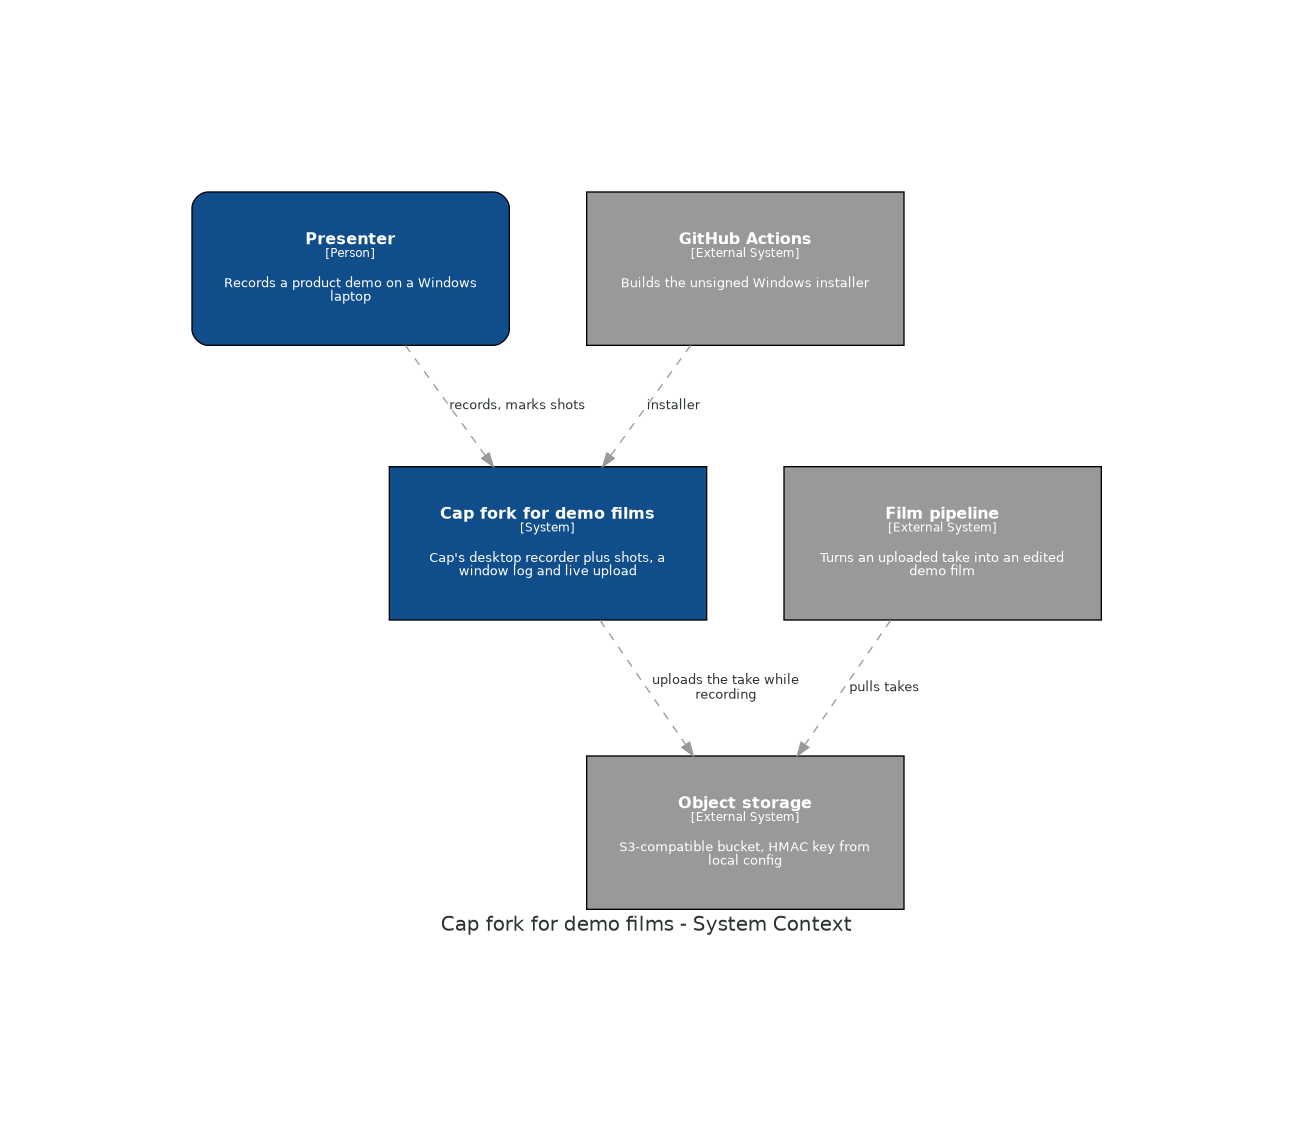
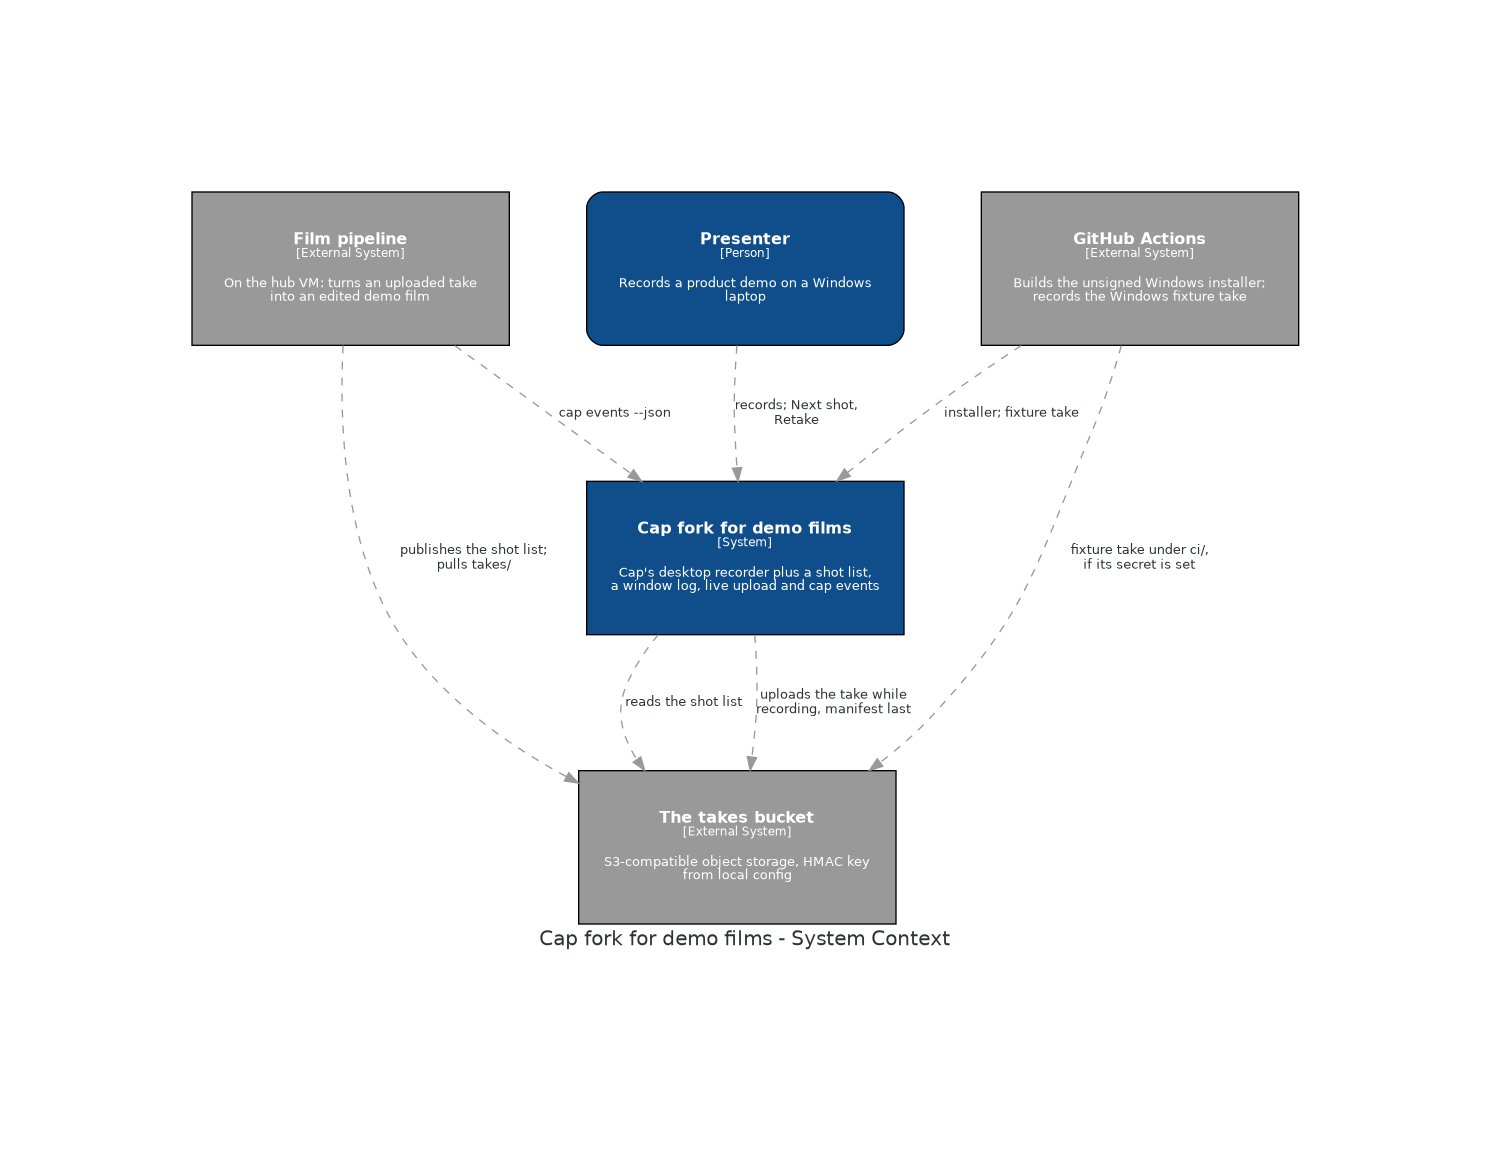
docs: c4.py drawn from the fork's real code (T-812)
Review at 2ee1b6c01: level 4 now lists shots.rs, hotkeys.rs, session.rs,
recording.rs, the gcs-mirror crate (lib.rs, sigv4.rs, cap-driver), events.rs,
verify-stimulus and both fork workflows; a level 4 arrow is drawn only when
the call it names is in its source file. The shot-list GET from the bucket
is drawn at context, container and component level. The contracts box no
longer claims runtime validation: only the shot list is parsed by their
rules. Known limitations read whole multi-line shortcut comments from the
app, the gcs-mirror crate, the CLI and verify-stimulus, and name the fn.
PNGs re-render from main once the other fork PRs land.

Task: T-812

diff --git a/docs/architecture/c4.py b/docs/architecture/c4.py
@@ -8,9 +8,11 @@
     uv run docs/architecture/c4.py context    # just one level
 
 Level 4 is read from the code on every run: each fork file that exists is drawn with its public
-functions, and one not yet in the tree is drawn as "not built yet". The README section between the
-fork markers is rewritten too, so its Known limitations list always matches the `// shortcut:`
-comments in apps/desktop-gpui/src. This repo is public: no bucket, key, host or address appears here.
+functions (a workflow with its steps), and one not yet in the tree is drawn as "not built yet". A
+level 4 arrow is drawn only when the call it names is in the source file it starts from. The README
+section between the fork markers is rewritten too, so its Known limitations list always matches the
+`// shortcut:` comments in the fork's code. This repo is public: no bucket, key, host or address
+appears here.
 """
 
 import re
@@ -19,7 +21,7 @@ import sys
 from functools import partial
 from pathlib import Path
 
-from diagrams import Diagram
+from diagrams import Cluster, Diagram
 from diagrams.c4 import C4Node, Container, Database, Person, Relationship, System, SystemBoundary
 
 # diagrams.c4 wraps text at 40 characters but draws 2.6in boxes, which cut lines off; 3.3in fits.
@@ -31,37 +33,92 @@ OUT = Path(__file__).parent
 ROOT = OUT.parents[1]
 SYSTEM = "Cap fork for demo films"
 GRAPH = {"splines": "spline", "nodesep": "0.8", "ranksep": "1.1"}
-SHORTCUT = re.compile(r"//+\s*shortcut:\s*([^\n]+)")
+# A `// shortcut:` comment and the `//` lines that continue it.
+SHORTCUT = re.compile(r"//+[ \t]*shortcut:[ \t]*([^\n]*(?:\n[ \t]*//+(?![ \t]*shortcut:)[^\n]*)*)")
+SHORTCUT_DIRS = ("apps/desktop-gpui/src", "apps/desktop-gpui/gcs-mirror/src", "apps/cli/src", "crates/verify-stimulus/src")
 START, END = "<!-- fork:start (written by docs/architecture/c4.py) -->", "<!-- fork:end -->"
+BUCKET = "The takes bucket"
 
-# Level 4: the code the fork adds or changes, as (path, what it does).
-CODE = [
-    ("apps/desktop-gpui/src/window_log.rs", "Foreground window every 250 ms -> windows.jsonl, on the cursor clock"),
-    ("apps/desktop-gpui/src/teleprompter_window.rs", "Shot list lines; Next shot appends {shot_id, segment, time_ms} to shots.json"),
-    ("apps/desktop-gpui/src/gcs_mirror.rs", "Closed fragments hard-linked to outbox/, uploaded once; audio as deltas; manifest last"),
-    ("apps/cli/src/events.rs", "cap events <take> --json: cursor.json and keyboard.bin as one sorted list"),
-    ("crates/recording/src/output_pipeline/start_gate.rs", "The start-gate epoch every take time is measured from (upstream, reused)"),
-    ("apps/desktop-gpui/src/theme.rs", "Colour and type tokens for the restyle"),
+# Level 4: the code the fork adds or changes, grouped by where it runs, as (path, what it does).
+APP, CRATE, CLI, CI, UPSTREAM = (
+    "Desktop app (apps/desktop-gpui/src)",
+    "cap-gcs-mirror crate (apps/desktop-gpui/gcs-mirror)",
+    "cap CLI (apps/cli)",
+    "CI fixture and release",
+    "Upstream, reused",
+)
+CODE = {
+    APP: [
+        ("apps/desktop-gpui/src/recording.rs", "Studio start: starts the mirror and the window log; finalize: mirror stop before the remux"),
+        ("apps/desktop-gpui/src/session.rs", "Recording phases; shot_time(): take dir and (segment, ms) on the start-gate clock"),
+        ("apps/desktop-gpui/src/teleprompter_window.rs", "Shows the shot on screen; load_shot_list GETs it from the bucket; mark_shot"),
+        ("apps/desktop-gpui/src/shots.rs", "pick bucket or local list, parse (shotlist rules), ShotClock, mark -> shots.json"),
+        ("apps/desktop-gpui/src/hotkeys.rs", "Ctrl+Alt+N / Ctrl+Alt+R while a shot list shows -> Next shot / Retake"),
+        ("apps/desktop-gpui/src/window_log.rs", "Windows: foreground window every 250 ms -> windows.jsonl, on change only"),
+        ("apps/desktop-gpui/src/gcs_mirror.rs", "Reads mirror.json from app data; start, stop, resume_pending"),
+        ("apps/desktop-gpui/src/theme.rs", "Light palette and type tokens for the restyle"),
+    ],
+    CRATE: [
+        ("apps/desktop-gpui/gcs-mirror/src/lib.rs", "Mirror: outbox hard links, scan, freeze -> stop.json, drain, manifest last"),
+        ("apps/desktop-gpui/gcs-mirror/src/sigv4.rs", "SigV4 signing for the XML API with an HMAC key"),
+        ("apps/desktop-gpui/gcs-mirror/src/bin/cap-driver.rs", "Test adapter, JSON on stdin: sign, scan, stop, resume, shots"),
+    ],
+    CLI: [
+        ("apps/cli/src/events.rs", "cap events <take> --json: cursor.json and keyboard.bin as one sorted list"),
+    ],
+    CI: [
+        (".github/workflows/verify-recording.yml", "windows-2022: a real studio take of the stimulus with SendInput clicks"),
+        ("crates/verify-stimulus/src/main.rs", "The stimulus window; each click flips a corner patch, logged to .clicks.jsonl"),
+        ("crates/verify-stimulus/src/bin/window_log_probe.rs", "window_log.rs compiled in unchanged, run beside the fixture take"),
+        (".github/workflows/fork-windows-release.yml", "Unsigned Windows NSIS installer; no updater artefacts"),
+    ],
+    UPSTREAM: [
+        ("crates/recording/src/output_pipeline/start_gate.rs", "The start-gate epoch every take time is measured from"),
+    ],
+}
+# Level 4 arrows as (from, the text that must be in `from`, to, label).
+CALLS = [
+    ("apps/desktop-gpui/src/recording.rs", "gcs_mirror::start", "apps/desktop-gpui/src/gcs_mirror.rs", "start; stop before remux"),
+    ("apps/desktop-gpui/src/recording.rs", "window_log::start", "apps/desktop-gpui/src/window_log.rs", "start, stop"),
+    ("apps/desktop-gpui/src/session.rs", "window_log::set_paused", "apps/desktop-gpui/src/window_log.rs", "set_paused"),
+    ("apps/desktop-gpui/src/hotkeys.rs", "view.mark_shot", "apps/desktop-gpui/src/teleprompter_window.rs", "mark_shot"),
+    ("apps/desktop-gpui/src/teleprompter_window.rs", "shot_time()", "apps/desktop-gpui/src/session.rs", "shot_time"),
+    ("apps/desktop-gpui/src/teleprompter_window.rs", "shots::pick", "apps/desktop-gpui/src/shots.rs", "pick, mark"),
+    ("apps/desktop-gpui/src/teleprompter_window.rs", "cap_gcs_mirror::request", "apps/desktop-gpui/gcs-mirror/src/lib.rs", "GET the shot list"),
+    ("apps/desktop-gpui/src/session.rs", "armed_at", "crates/recording/src/output_pipeline/start_gate.rs", "armed instant"),
+    ("apps/desktop-gpui/src/recording.rs", "armed_at", "crates/recording/src/output_pipeline/start_gate.rs", "window log epoch"),
+    ("apps/desktop-gpui/src/gcs_mirror.rs", "Mirror::new", "apps/desktop-gpui/gcs-mirror/src/lib.rs", "Mirror, spawn, stop, drain"),
+    ("apps/desktop-gpui/gcs-mirror/src/lib.rs", "sigv4::authorize", "apps/desktop-gpui/gcs-mirror/src/sigv4.rs", "authorize"),
+    ("apps/desktop-gpui/gcs-mirror/src/bin/cap-driver.rs", "Mirror::new", "apps/desktop-gpui/gcs-mirror/src/lib.rs", "scan, stop, resume"),
+    ("apps/desktop-gpui/gcs-mirror/src/bin/cap-driver.rs", "src/shots.rs", "apps/desktop-gpui/src/shots.rs", "includes by path"),
+    ("crates/verify-stimulus/src/bin/window_log_probe.rs", "src/window_log.rs", "apps/desktop-gpui/src/window_log.rs", "includes by path"),
+    (".github/workflows/verify-recording.yml", "cap-verify-stimulus", "crates/verify-stimulus/src/main.rs", "records the stimulus"),
+    (".github/workflows/verify-recording.yml", "window-log-probe", "crates/verify-stimulus/src/bin/window_log_probe.rs", "runs"),
+    (".github/workflows/verify-recording.yml", "op: \"shots\"", "apps/desktop-gpui/gcs-mirror/src/bin/cap-driver.rs", "shots, scan, stop"),
+    (".github/workflows/verify-recording.yml", "events \"$take\" --json", "apps/cli/src/events.rs", "cap events --json"),
 ]
 
 
-def draw(level, title):
+def draw(level, title, direction="TB"):
     return Diagram(f"{SYSTEM} - {title}", filename=str(OUT / f"c4_{level}"), outformat="png",
-                   show=False, direction="TB", graph_attr=GRAPH)
+                   show=False, direction=direction, graph_attr=GRAPH)
 
 
 def context():
-    """Level 1: who uses the fork and what it depends on."""
+    """Level 1: who uses the fork and what it talks to."""
     with draw("context", "System Context"):
         lead = Person("Presenter", "Records a product demo on a Windows laptop")
-        fork = System(SYSTEM, "Cap's desktop recorder plus shots, a window log and live upload")
-        store = System("Object storage", "S3-compatible bucket, HMAC key from local config", external=True)
-        pipeline = System("Film pipeline", "Turns an uploaded take into an edited demo film", external=True)
-        ci = System("GitHub Actions", "Builds the unsigned Windows installer", external=True)
-        lead >> Relationship("records, marks shots") >> fork
-        fork >> Relationship("uploads the take while recording") >> store
-        pipeline >> Relationship("pulls takes") >> store
-        ci >> Relationship("installer") >> fork
+        fork = System(SYSTEM, "Cap's desktop recorder plus a shot list, a window log, live upload and cap events")
+        store = System(BUCKET, "S3-compatible object storage, HMAC key from local config", external=True)
+        pipeline = System("Film pipeline", "On the hub VM: turns an uploaded take into an edited demo film", external=True)
+        ci = System("GitHub Actions", "Builds the unsigned Windows installer; records the Windows fixture take", external=True)
+        lead >> Relationship("records; Next shot, Retake") >> fork
+        fork >> Relationship("reads the shot list") >> store
+        fork >> Relationship("uploads the take while recording, manifest last") >> store
+        pipeline >> Relationship("publishes the shot list; pulls takes/") >> store
+        pipeline >> Relationship("cap events --json") >> fork
+        ci >> Relationship("installer; fixture take") >> fork
+        ci >> Relationship("fixture take under ci/, if its secret is set") >> store
 
 
 def container():
@@ -69,17 +126,22 @@ def container():
     with draw("container", "Containers"):
         lead = Person("Presenter", "")
         with SystemBoundary(SYSTEM):
-            app = Container("Desktop app", "Rust, GPUI (apps/desktop-gpui)", "Studio recording, teleprompter, window log, upload")
-            cli = Container("cap CLI", "Rust (apps/cli), same commit", "cap events --json; cap export")
-            release = Container("Release workflow", "GitHub Actions, windows-2022", "Unsigned installer; updater and telemetry off")
-            vendor = Database("contracts/vendor/", "JSON Schema, copied from the pipeline", "Shot list, shots, windows, manifest")
-        store = Database("Object storage", "S3-compatible", "takes/<id>/: fragments, sidecars, manifest last")
-        take = Database("Take folder", "<take>.cap on the laptop", "Never rewritten by the fork; uploads go via outbox/")
-        lead >> Relationship("record, Next shot") >> app
+            app = Container("Desktop app", "Rust, GPUI (apps/desktop-gpui)", "Studio recording, teleprompter shot list, window log, upload mirror")
+            cli = Container("cap CLI", "Rust (apps/cli), same commit", "cap events <take> --json")
+            driver = Container("cap-driver", "Rust (gcs-mirror crate, test binary)", "The mirror and the shot logic, one JSON request per run")
+            fixture = Container("Recording fixture", "GitHub Actions, windows-2022", "Studio take of the stimulus, SendInput clicks, artefact")
+            release = Container("Release workflow", "GitHub Actions, windows-2022", "Unsigned installer, no updater artefacts")
+            vendor = Database("contracts/vendor/0.1.0", "JSON Schema from the film repo", "shotlist, shots, windows, cap-events, manifest")
+        store = Database(BUCKET, "S3-compatible", "shotlist/current.json; takes/<take>/ with the manifest last; ci/")
+        take = Database("Take folder", "<take>.cap on the laptop", "Cap's files, plus shots.json, windows.jsonl, outbox/")
+        lead >> Relationship("record; Next shot, Retake") >> app
         app >> Relationship("writes") >> take
-        app >> Relationship("PUT closed fragments") >> store
-        cli >> Relationship("reads the same project format") >> take
-        app >> Relationship("validates outputs against") >> vendor
+        app >> Relationship("GET the shot list; PUT the take, manifest last") >> store
+        app >> Relationship("parses the shot list by the rules of") >> vendor
+        cli >> Relationship("reads cursor.json, keyboard.bin") >> take
+        fixture >> Relationship("shots, scan, stop") >> driver
+        fixture >> Relationship("cap events --json") >> cli
+        driver >> Relationship("PUT under ci/<run>-<attempt>/") >> store
         release >> Relationship("builds") >> app
 
 
@@ -87,60 +149,95 @@ def component():
     """Level 3: inside the desktop app, only the parts the fork adds or reuses."""
     with draw("component", "Components of the desktop app"):
         with SystemBoundary("Desktop app (apps/desktop-gpui)"):
-            gate = Component("Start gate", "crates/recording, reused", "The one clock for cursor.json, keyboard.bin, shots and windows")
-            tele = Component("Teleprompter and shots", "teleprompter_window.rs", "Shows the shot list; Next shot writes shots.json")
-            win = Component("Window log", "window_log.rs", "Foreground title and process on change -> windows.jsonl")
-            mirror = Component("Upload mirror", "gcs_mirror.rs", "outbox/ hard links; resumable from uploaded.jsonl; 120 s drain at stop")
-        store = Database("Object storage", "S3-compatible", "")
-        tele >> Relationship("times from") >> gate
-        win >> Relationship("times from") >> gate
-        mirror >> Relationship("PUT") >> store
+            rec = Component("Recording", "recording.rs, session.rs", "Studio start and stop; pause and resume; shot_time()")
+            gate = Component("Start gate", "crates/recording, reused", "The armed instant cursor.json, shots and windows count from")
+            keys = Component("Shot hotkeys", "hotkeys.rs", "Ctrl+Alt+N, Ctrl+Alt+R while a shot list shows")
+            tele = Component("Teleprompter", "teleprompter_window.rs", "Shows the shot on screen; Next shot, Retake")
+            shots = Component("Shots", "shots.rs", "Bucket list or local file; parse; marks -> shots.json")
+            win = Component("Window log", "window_log.rs", "Windows only: foreground title and process on change")
+            wiring = Component("Mirror wiring", "gcs_mirror.rs", "mirror.json from app data; start, stop, resume_pending")
+            mirror = Component("Mirror", "gcs-mirror crate: lib.rs, sigv4.rs", "outbox/ hard links, uploaded.jsonl, stop.json, manifest last")
+        store = Database(BUCKET, "S3-compatible", "")
+        take = Database("Take folder", "<take>.cap", "")
+        keys >> Relationship("mark_shot") >> tele
+        tele >> Relationship("pick, mark") >> shots
+        tele >> Relationship("shot_time") >> rec
+        tele >> Relationship("signed GET") >> mirror
+        rec >> Relationship("armed instant") >> gate
+        rec >> Relationship("start, pause, stop") >> win
+        rec >> Relationship("start; stop before remux") >> wiring
+        wiring >> Relationship("spawn, stop, drain") >> mirror
+        shots >> Relationship("shots.json") >> take
+        win >> Relationship("windows.jsonl") >> take
+        mirror >> Relationship("hard-links fragments into outbox/") >> take
+        mirror >> Relationship("GET shot list; PUT take, manifest last") >> store
+
+
+def outline(path, text):
+    """What a file defines: a workflow's step names, else its public functions."""
+    if path.endswith(".yml"):
+        return "steps: " + ", ".join(re.findall(r"^\s*- name:\s*(.+)$", text, re.M))
+    names = sorted(set(re.findall(r"pub(?:\([a-z]+\))?\s+fn\s+(\w+)", text)))
+    return "fns: " + ", ".join(names[:6]) + (", ..." if len(names) > 6 else "") if names else ""
 
 
 def code():
-    """Level 4: the fork's files as they are in this tree, with their public functions."""
-    with draw("code", "Code (read from the tree)"):
-        nodes = {}
+    """Level 4: the fork's files as they are in this tree, with what they define."""
+    # left to right: one column per call depth keeps 17 files narrow enough for a README
+    with draw("code", "Code (read from the tree)", "LR"):
+        nodes, sources = {}, {}
         with SystemBoundary("Fork code"):
-            for path, what in CODE:
-                file = ROOT / path
-                built = file.is_file()
-                names = sorted(set(re.findall(r"pub(?:\([a-z]+\))?\s+fn\s+(\w+)", file.read_text())))[:6] if built else []
-                detail = what + (". fns: " + ", ".join(names) if names else "")
-                nodes[path] = File(Path(path).name + ("" if built else " (not built yet)"), str(Path(path).parent), detail)
-        gate = nodes["crates/recording/src/output_pipeline/start_gate.rs"]
-        for path in ("apps/desktop-gpui/src/window_log.rs", "apps/desktop-gpui/src/teleprompter_window.rs"):
-            nodes[path] >> Relationship("times from") >> gate
+            for group, files in CODE.items():
+                with Cluster(group):
+                    for path, what in files:
+                        file = ROOT / path
+                        sources[path] = file.read_text() if file.is_file() else None
+                        detail = what + (". " + outline(path, sources[path]) if sources[path] else "")
+                        name = Path(path).name + ("" if sources[path] else " (not built yet)")
+                        nodes[path] = File(name, str(Path(path).parent), detail)
+        for start, call, end, label in CALLS:
+            if call in (sources[start] or "") and sources[end]:
+                nodes[start] >> Relationship(label) >> nodes[end]
 
 LEVELS = {"context": context, "container": container, "component": component, "code": code}
 
 
 def shortcuts():
-    """Every `// shortcut:` comment in the desktop app, as (file, text)."""
+    """Every `// shortcut:` comment in the fork's code, as (file, text, the fn it sits on or None)."""
     found = []
-    for path in sorted((ROOT / "apps/desktop-gpui/src").rglob("*.rs")):
-        found += [(path.relative_to(ROOT).as_posix(), text.strip()) for text in SHORTCUT.findall(path.read_text())]
+    for folder in SHORTCUT_DIRS:
+        for path in sorted((ROOT / folder).rglob("*.rs")):
+            text = path.read_text()
+            for match in SHORTCUT.finditer(text):
+                words = " ".join(re.sub(r"^\s*//+\s?", "", line).strip() for line in match.group(1).split("\n"))
+                after = text[match.end():].lstrip("\n").split("\n")[:3]
+                item = next((m.group(1) for line in after if (m := re.search(r"\bfn\s+(\w+)", line))), None)
+                found.append((path.relative_to(ROOT).as_posix(), words.strip(), item))
     return found
 
 
 def readme():
     """Rewrite the fork section of README.md, placed below upstream's header on the first run."""
-    limits = "\n".join(f"- {text} (`{path}`)" for path, text in shortcuts()) or "- None recorded."
+    limits = "\n".join(f"- {text} (`{path}`" + (f", `{item}`)" if item else ")") for path, text, item in shortcuts())
     images = "\n".join(f"![C4 {level}](docs/architecture/c4_{level}.png)" for level in LEVELS)
     section = f"""{START}
 ## This fork
 
-A fork of Cap for recording product demos that are turned into edited films. It adds a teleprompter
-with shot marks (`shots.json`), a foreground-window log (`windows.jsonl`), live upload of each closed
-fragment to S3-compatible storage, and `cap events --json`. Every time it writes is on the take's
-start-gate clock, the one `cursor.json` uses. Upload settings live in a local config file, never in
-this repo.
+A fork of Cap for recording product demos that a film pipeline turns into edited films. The desktop
+app adds a shot list in the teleprompter, read from the bucket (or a local file), with Next shot and
+Retake on global hotkeys that write shot marks to the take's `shots.json`; a foreground-window log on
+Windows (`windows.jsonl`); an upload mirror that streams each studio take to S3-compatible storage
+while it records, with `take-manifest.json` last; and a light restyle. The CLI adds
+`cap events <take> --json`. Every time the fork writes is on the take's start-gate clock, the one
+`cursor.json` uses. GitHub Actions builds an unsigned Windows installer and records a real Windows
+fixture take. Upload settings live in a local `mirror.json` in the app data folder, never in this
+repo.
 
 {images}
 
 ### Known limitations
 
-{limits}
+{limits or "- None recorded."}
 {END}"""
     path = ROOT / "README.md"
     text = path.read_text()

diff --git a/README.md b/README.md
@@ -31,11 +31,15 @@
 <!-- fork:start (written by docs/architecture/c4.py) -->
 ## This fork
 
-A fork of Cap for recording product demos that are turned into edited films. It adds a teleprompter
-with shot marks (`shots.json`), a foreground-window log (`windows.jsonl`), live upload of each closed
-fragment to S3-compatible storage, and `cap events --json`. Every time it writes is on the take's
-start-gate clock, the one `cursor.json` uses. Upload settings live in a local config file, never in
-this repo.
+A fork of Cap for recording product demos that a film pipeline turns into edited films. The desktop
+app adds a shot list in the teleprompter, read from the bucket (or a local file), with Next shot and
+Retake on global hotkeys that write shot marks to the take's `shots.json`; a foreground-window log on
+Windows (`windows.jsonl`); an upload mirror that streams each studio take to S3-compatible storage
+while it records, with `take-manifest.json` last; and a light restyle. The CLI adds
+`cap events <take> --json`. Every time the fork writes is on the take's start-gate clock, the one
+`cursor.json` uses. GitHub Actions builds an unsigned Windows installer and records a real Windows
+fixture take. Upload settings live in a local `mirror.json` in the app data folder, never in this
+repo.
 
 ![C4 context](docs/architecture/c4_context.png)
 ![C4 container](docs/architecture/c4_container.png)
@@ -44,7 +48,7 @@ this repo.
 
 ### Known limitations
 
-- unused since the fork dropped the startup check (main.rs); delete with the updater if it never returns. (`apps/desktop-gpui/src/updates.rs`)
+- unused since the fork dropped the startup check (main.rs); delete with the updater if it never returns. (`apps/desktop-gpui/src/updates.rs`, `schedule_startup_check`)
 <!-- fork:end -->
 
 Cap is the open source alternative to Loom. It gives you fast screen recording, polished local editing, instant share links, comments, transcripts, analytics, team workspaces, custom domains, custom S3 storage, and full self-hosting when you need complete control.
